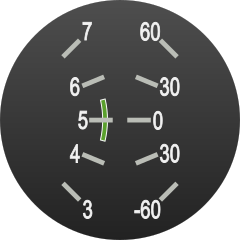
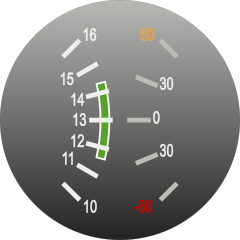
Simulación voltímetro amperímetro. [25-02-2026  4:05:56.15]

diff --git a/JS/functions_VoltAmp.js b/JS/functions_VoltAmp.js
@@ -56,27 +56,27 @@ function initVoltAmpControls() {
   const btnPlusR = document.getElementById('voltamp-btn-plus-right');
   const btnMinusR = document.getElementById('voltamp-btn-minus-right');
   
-  // Botones Left (Voltímetro: 3-7V)
+  // Botones Left (Voltímetro: 10-16V)
   if (btnMaxL) {
     btnMaxL.addEventListener('click', () => {
-      updateVoltAmpLeft(7, true); // Max: 7V
+      updateVoltAmpLeft(16, true); // Max: 16V
     });
   }
   if (btnMidL) {
     btnMidL.addEventListener('click', () => {
-      updateVoltAmpLeft(5, true); // Mid: 5V
+      updateVoltAmpLeft(13, true); // Mid: 13V
     });
   }
   if (btnMinL) {
     btnMinL.addEventListener('click', () => {
-      updateVoltAmpLeft(3, true); // Min: 3V
+      updateVoltAmpLeft(10, true); // Min: 10V
     });
   }
   if (btnPlusL) {
     btnPlusL.addEventListener('click', () => {
       const slider = document.getElementById('voltamp-slider-left');
       if (slider) {
-        const newValue = Math.min(7, parseFloat(slider.value) + 0.5);
+        const newValue = Math.min(16, parseFloat(slider.value) + 0.5);
         updateVoltAmpLeft(newValue, true);
       }
     });
@@ -85,11 +85,21 @@ function initVoltAmpControls() {
     btnMinusL.addEventListener('click', () => {
       const slider = document.getElementById('voltamp-slider-left');
       if (slider) {
-        const newValue = Math.max(3, parseFloat(slider.value) - 0.5);
+        const newValue = Math.max(10, parseFloat(slider.value) - 0.5);
         updateVoltAmpLeft(newValue, true);
       }
     });
   }
+
+  // Event listener para el botón de Simulación/Manual de Voltaje
+  const simToggle = document.getElementById('voltage-sim-toggle');
+  if (simToggle) {
+    simToggle.addEventListener('click', () => {
+      const isCurrentlySimulated = simToggle.classList.contains('active');
+      updateVoltageSimModeState(!isCurrentlySimulated, true);
+    });
+  }
+  
   // Botones Right (Amperímetro: -60 a 60A)
   if (btnMaxR) {
     btnMaxR.addEventListener('click', () => {
@@ -217,15 +227,39 @@ function voltAmpToAngleRight(voltAmp) {
   if (voltAmp > maxValue) voltAmp = maxValue;
   return minAngle + ((voltAmp - minValue) * (maxAngle - minAngle)) / (maxValue - minValue);
 }
-// Mapea el valor de Volt/Amp (3-7) al ángulo de la aguja (0 / -90 grados)
+// Mapea el valor de Volt/Amp (10-16) al ángulo de la aguja (0 / -90 grados)
 function voltAmpToAngleLeft(voltAmp) {
-  const minValue = 3;
-  const maxValue = 7;
-  const minAngle = 0; // Ángulo mínimo para 3 V/A
-  const maxAngle = -90; // Ángulo máximo para 7 V/A
+  const minValue = 10;
+  const maxValue = 16;
+  const minAngle = 0; // Ángulo mínimo para 10V
+  const maxAngle = -90; // Ángulo máximo para 16V
   if (voltAmp < minValue) voltAmp = minValue;
   if (voltAmp > maxValue) voltAmp = maxValue;
   return minAngle + ((voltAmp - minValue) * (maxAngle - minAngle)) / (maxValue - minValue) + 45;
+}
+
+// Envía el estado de Simulación/Manual del Voltaje al ESP32 vía WebSocket
+function sendVoltageSimModeToESP32(simulated) {
+  if (window.ws && window.ws.readyState === WebSocket.OPEN) {
+    const data = JSON.stringify({ useSimulatedVoltage: simulated });
+    window.ws.send(data);
+    // console.log(`Enviando modo Voltaje al ESP32: ${simulated ? 'SIM' : 'MAN'}`);
+  }
+}
+
+// Actualiza el estado visual del botón SIM/MAN de Voltaje en la UI
+function updateVoltageSimModeState(simulated, sendToESP = false) {
+  const simToggle = document.getElementById('voltage-sim-toggle');
+  if (!simToggle) return;
+  
+  const isSimulated = !!simulated;
+  simToggle.classList.toggle('active', isSimulated);
+  simToggle.textContent = isSimulated ? 'SIM' : 'MAN';
+  simToggle.title = isSimulated ? 'Voltaje Simulado activo' : 'Voltaje Manual activo';
+  
+  if (sendToESP) {
+    sendVoltageSimModeToESP32(isSimulated);
+  }
 }
 
 

diff --git a/VoltAmp_Control.html b/VoltAmp_Control.html
@@ -27,8 +27,9 @@ Medidas: 120px x 240px
     <!-- Slider Left -->
     <div class="voltamp-slider-column">
       <span class="voltamp-tank-label">L</span>
-      <input type="range" min="3" max="7" value="3" step="0.1" id="voltamp-slider-left" orient="vertical" class="voltamp-slider-input">
-      <div class="voltamp-value-label" id="voltamp-value-left">3.0</div>
+      <input type="range" min="10" max="16" value="12" step="0.1" id="voltamp-slider-left" orient="vertical" class="voltamp-slider-input">
+      <div class="voltamp-value-label" id="voltamp-value-left">12.0</div>
+      <button id="voltage-sim-toggle" class="voltage-sim-toggle">SIM</button>
     </div>
     <!-- Botones +/- Left -->
     <div class="voltamp-plusminus-column">
@@ -131,6 +132,25 @@ Medidas: 120px x 240px
     padding: 1px 2px;
     font-family: 'Courier New', monospace;
     text-shadow: 0 0 3px #4ade80;
+  }
+  .voltage-sim-toggle {
+    width: 34px;
+    height: 16px;
+    margin-top: 2px;
+    border: 1px solid #4a5d23;
+    border-radius: 3px;
+    font-size: 9px;
+    font-weight: bold;
+    padding: 0;
+    cursor: pointer;
+    color: #4ade80;
+    background: linear-gradient(145deg, #1e3a5f, #0d1b2a);
+    text-shadow: 1px 1px 1px #000;
+  }
+  .voltage-sim-toggle.active {
+    color: #0d1b2a;
+    background: linear-gradient(145deg, #4ade80, #22c55e);
+    text-shadow: none;
   }
   .voltamp-plusminus-column {
     display: flex;

diff --git a/mainHTML.cpp b/mainHTML.cpp
@@ -215,6 +215,9 @@ window.addEventListener('DOMContentLoaded', () => {
       // console.log("Actualizando Volt/Amp Left: " + data['voltAmpValueLeft']);
       updateVoltAmpLeft(data['voltAmpValueLeft']);
     }
+    if (data['useSimulatedVoltage'] !== undefined && typeof updateVoltageSimModeState === 'function') {
+      updateVoltageSimModeState(data['useSimulatedVoltage']);
+    }
     if (data['voltAmpValueRight'] !== undefined && typeof updateVoltAmpRight === 'function') {
       // console.log("Actualizando Volt/Amp Right: " + data['voltAmpValueRight']);
       updateVoltAmpRight(data['voltAmpValueRight']);
